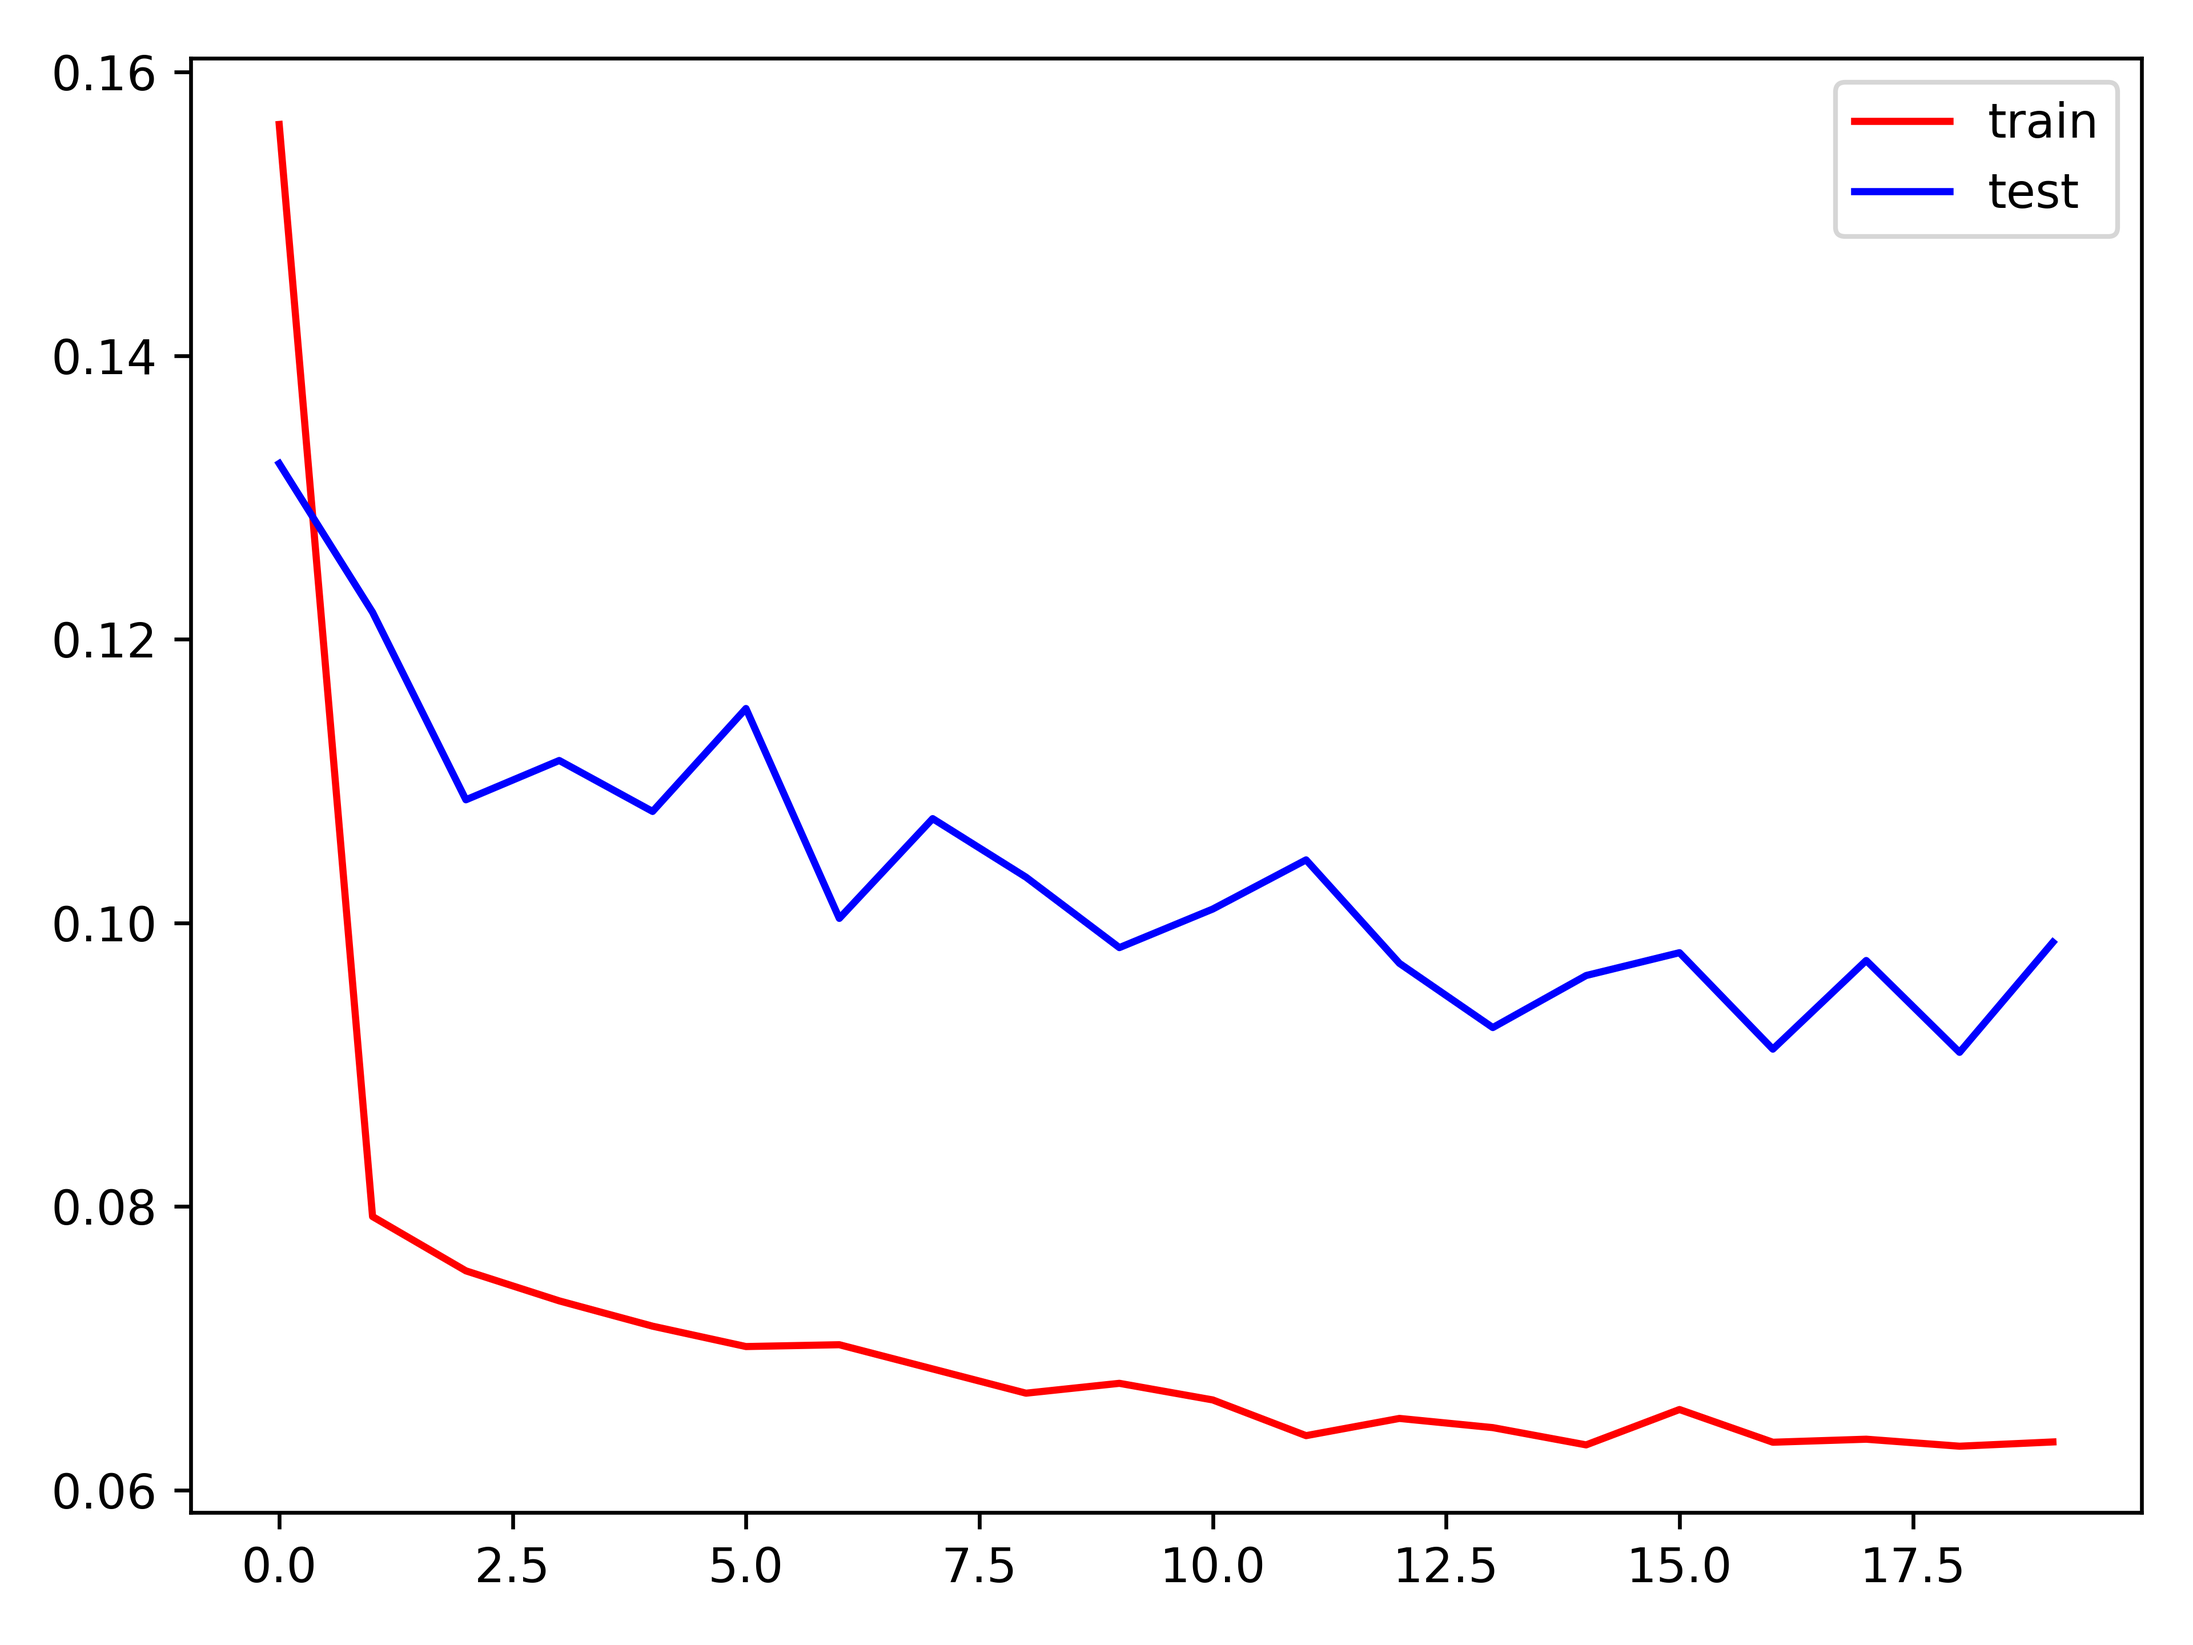
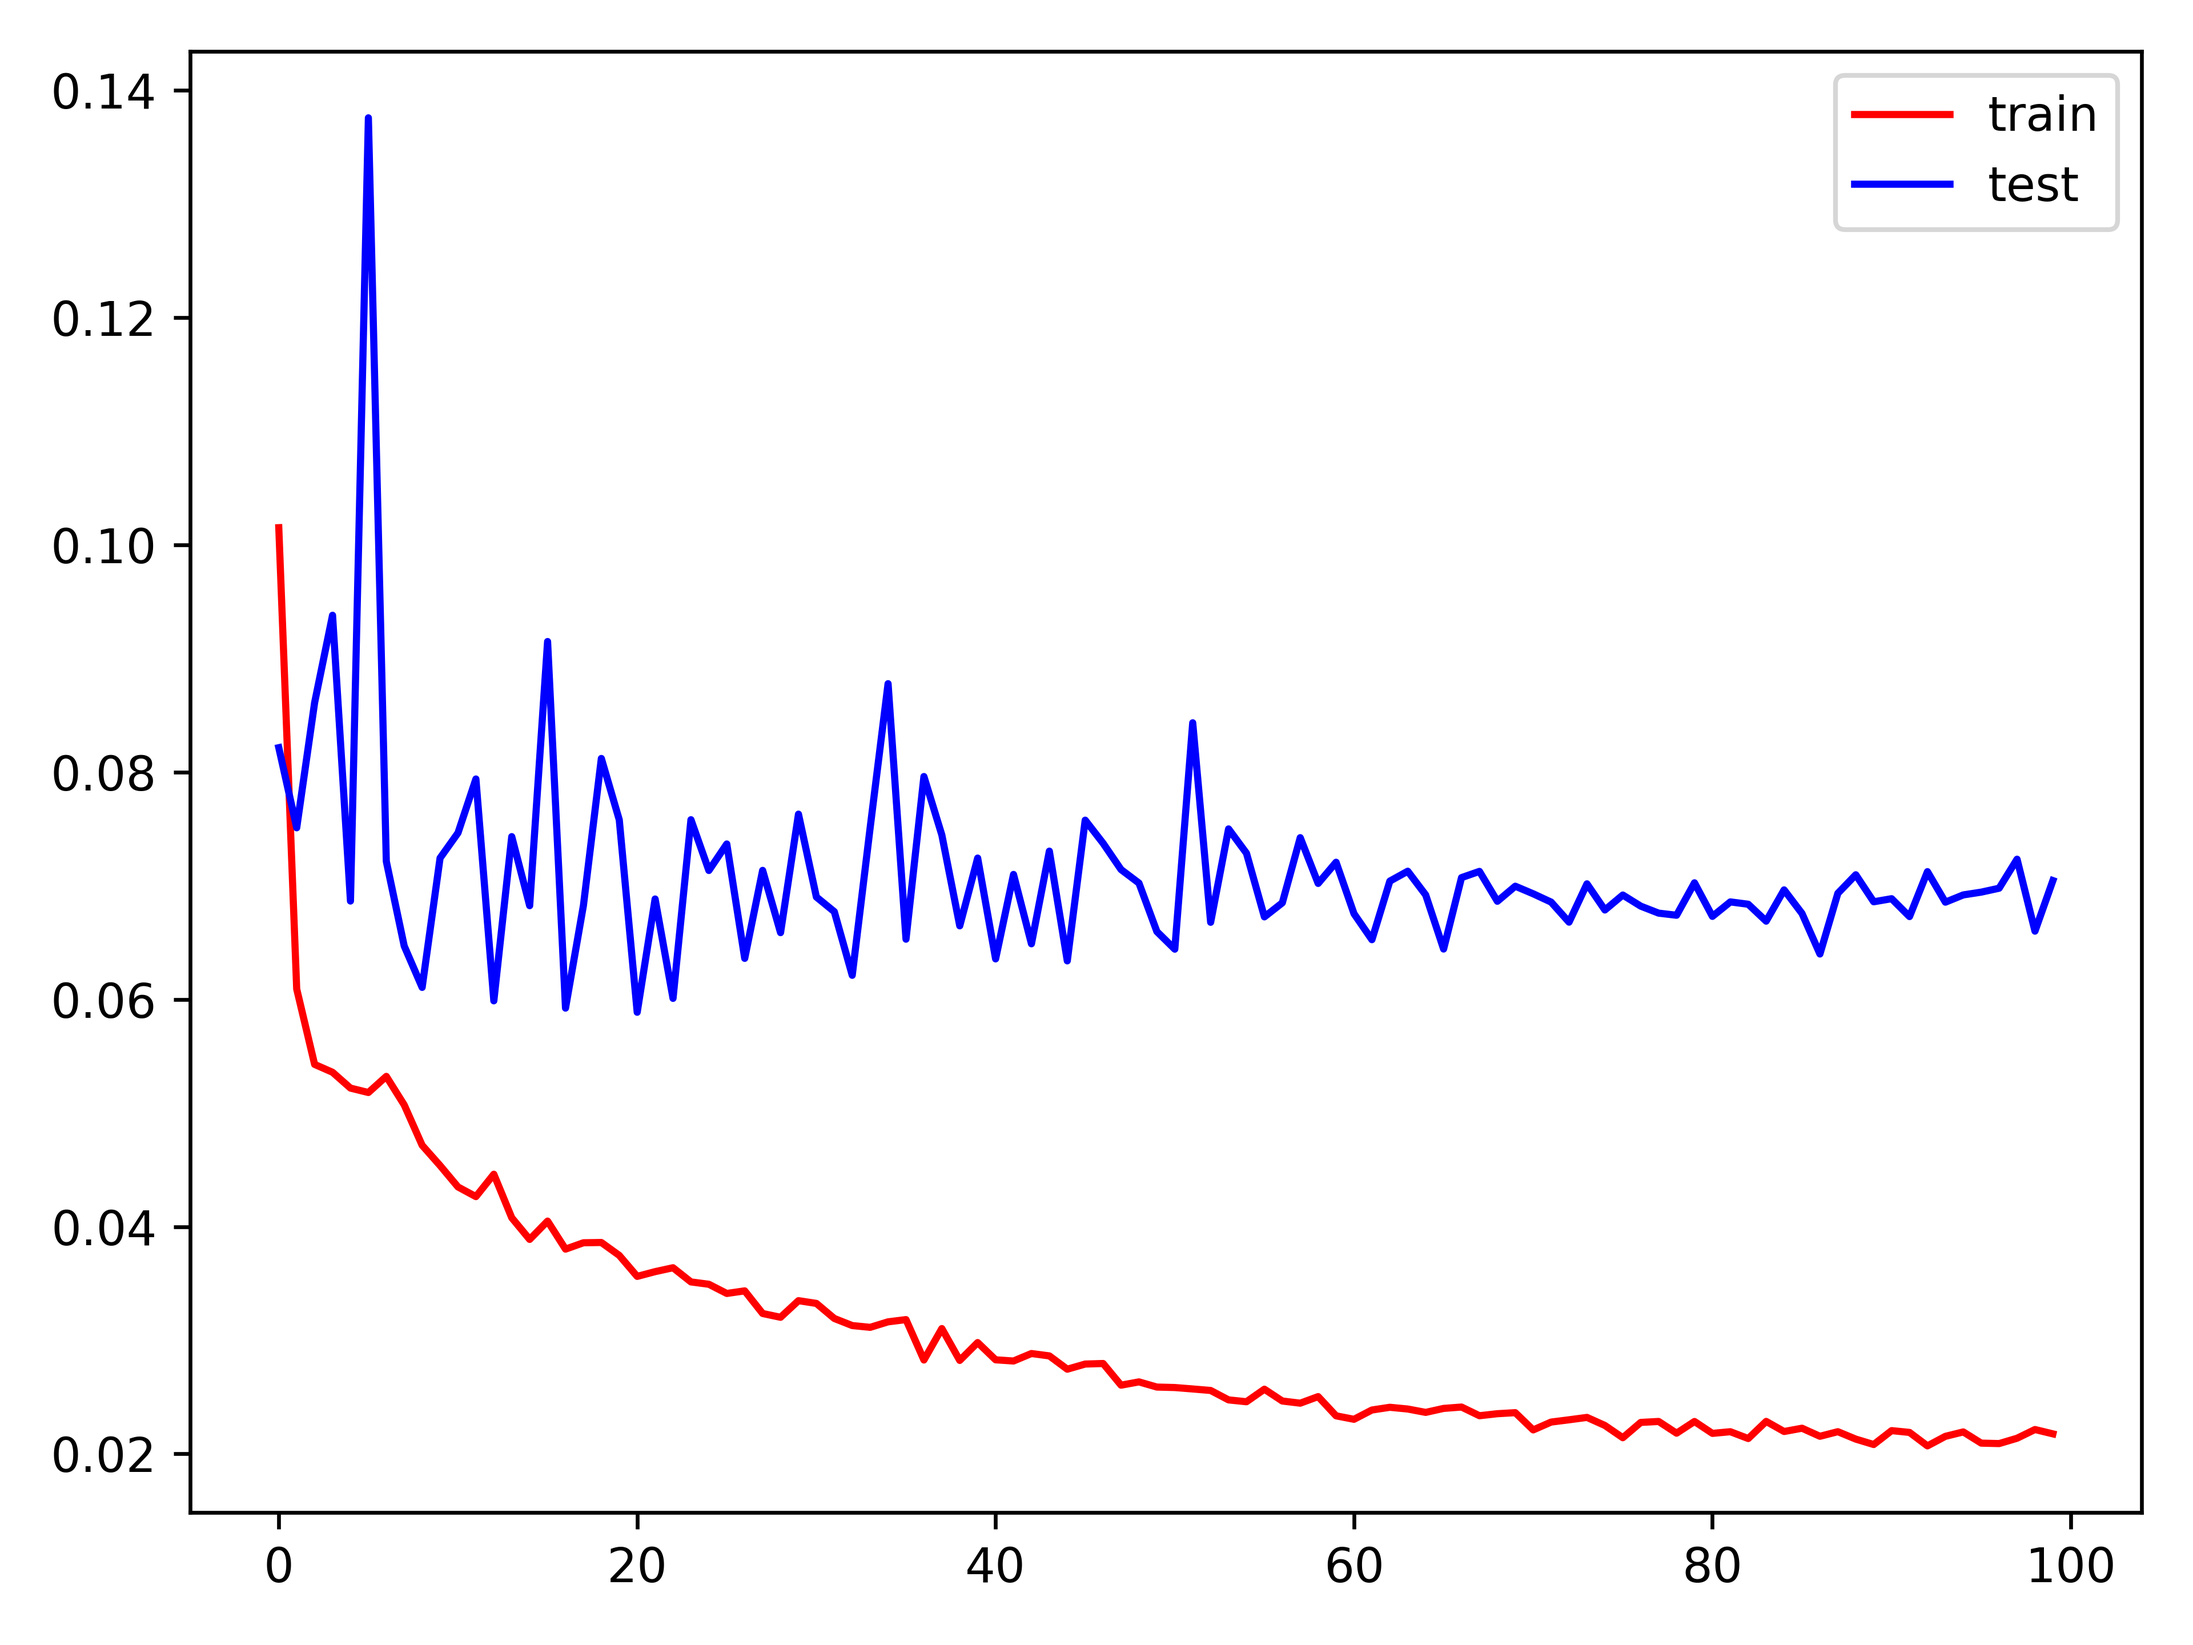
add CosineAnnealingLR to FCNEL

diff --git a/train_FCNEL.py b/train_FCNEL.py
@@ -8,6 +8,7 @@ import torch
 import torch.nn.functional as F
 from torch.nn import init
 from torch.optim import SGD
+from torch.optim.lr_scheduler import CosineAnnealingLR
 from torchvision.models.segmentation.fcn import fcn_resnet50, FCN_ResNet50_Weights, FCN
 import matplotlib.pyplot as plt
 
@@ -15,10 +16,15 @@ from data import EmotionROI, DataLoader
 from utils import *
 
 # according to the essay, and also follow: https://arxiv.org/abs/1411.4038
-#LR = 1e-8   # this does NOT work!!
-LR = 1e-4
-EPOCHS = 20
-BATCH_SIZE = 20
+# NOTE: this does NOT work!!
+if not 'follow essay':
+  LR = 1e-8
+  EPOCHS = 20
+  BATCH_SIZE = 20
+else:
+  LR = 1e-2
+  EPOCHS = 100
+  BATCH_SIZE = 20
 
 
 def F_beta(prec:float, recall:float, beta:float) -> float:
@@ -62,6 +68,7 @@ def train(args):
 
   model = get_model().to(device)
   optimizer = SGD(model.parameters(), lr=LR, momentum=0.9, weight_decay=5e-4)
+  scheduler = CosineAnnealingLR(optimizer, T_max=EPOCHS, eta_min=1e-7, verbose=True)
 
   loss_train, loss_test = [], []
   step = 0
@@ -88,6 +95,7 @@ def train(args):
         print(f'>> [step {step}] loss: {loss.item()}')
 
     loss_train.append(mse / tot)
+    scheduler.step()
 
     ''' Eval '''
     tot, mse = 0, 0.0
